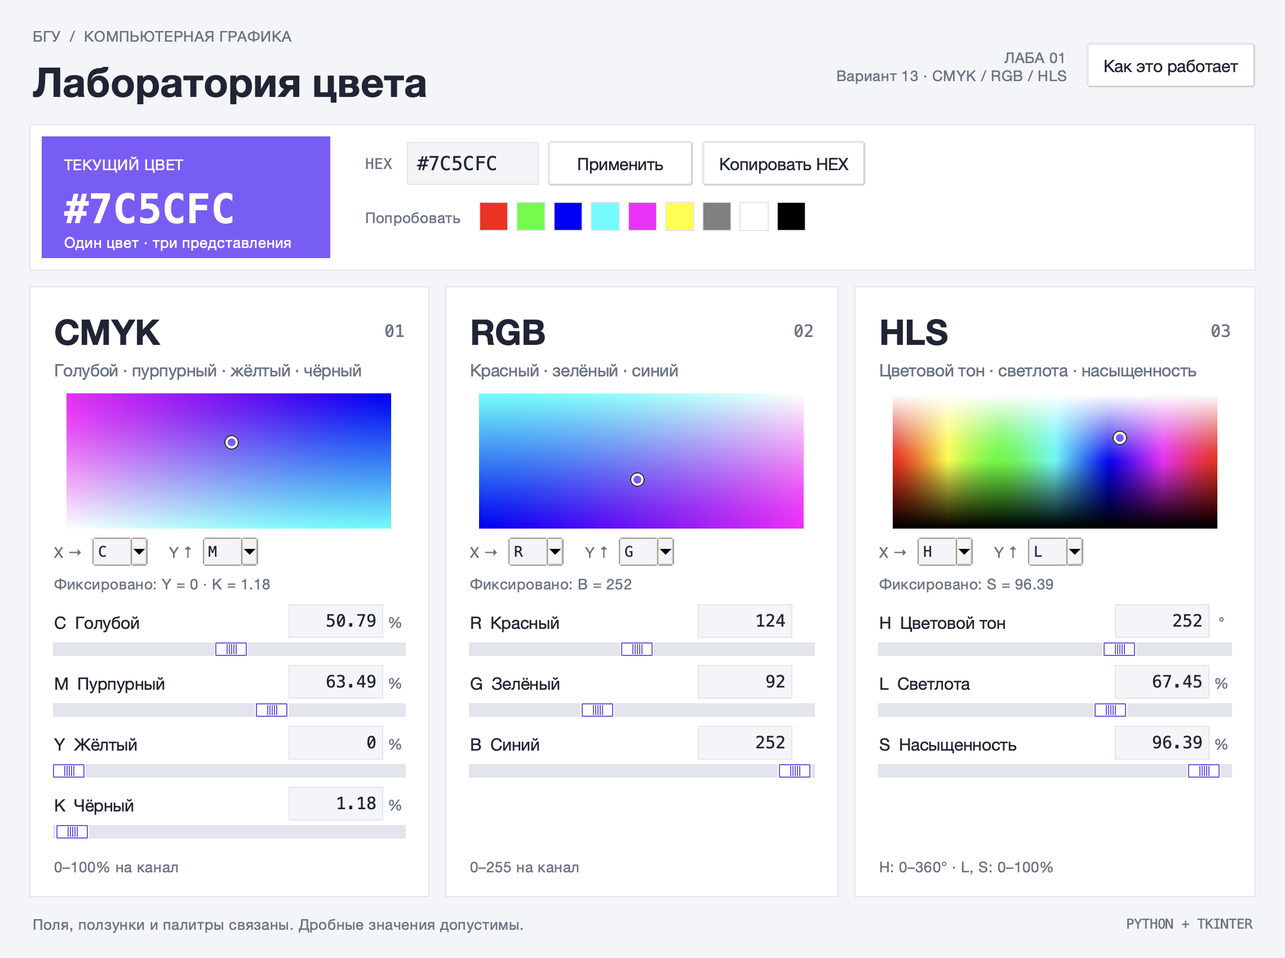
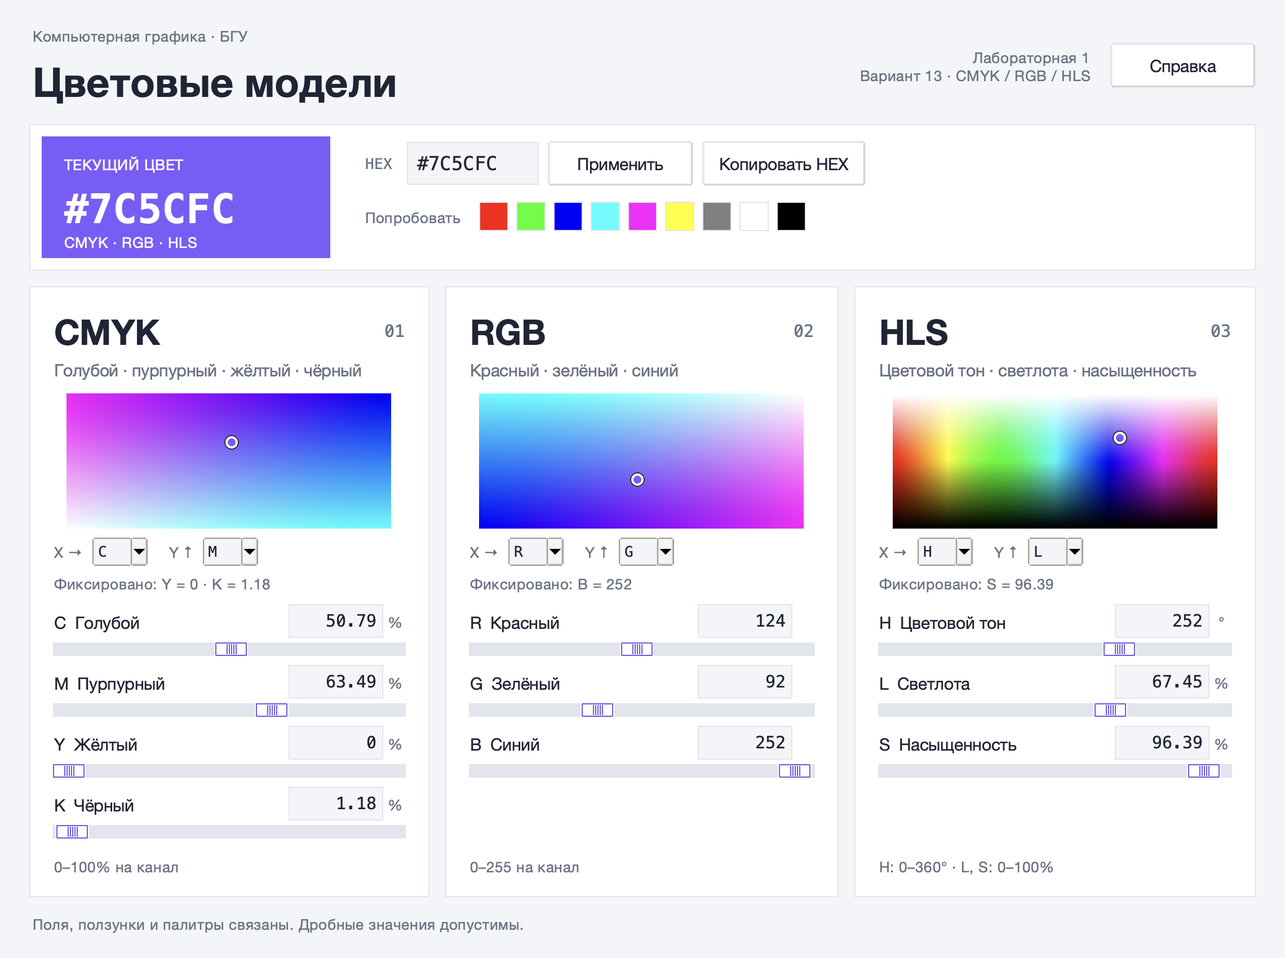
Simplify lab documentation and add double-click launchers

diff --git a/labs/lab01/app.py b/labs/lab01/app.py
@@ -201,7 +201,7 @@ class ColorApp:
         self.state = ColorState()
         self.palette_job = None
         self.help_window = None
-        root.title("Лаборатория цвета — БГУ · Вариант 13")
+        root.title("Цветовые модели — Лабораторная 1")
         root.configure(bg=BG)
         root.geometry("1140x850")
         root.minsize(1060, 850)
@@ -224,12 +224,12 @@ class ColorApp:
         header.grid(row=0, column=0, sticky="ew", pady=(0, 14))
         heading = tk.Frame(header, bg=BG)
         heading.pack(side="left")
-        tk.Label(heading, text="БГУ  /  КОМПЬЮТЕРНАЯ ГРАФИКА", bg=BG, fg=MUTED,
+        tk.Label(heading, text="Компьютерная графика · БГУ", bg=BG, fg=MUTED,
                  font=(FONT, 10), anchor="w").pack(fill="x")
-        tk.Label(heading, text="Лаборатория цвета", bg=BG, fg=INK,
+        tk.Label(heading, text="Цветовые модели", bg=BG, fg=INK,
                  font=(FONT, 27, "bold"), anchor="w").pack(fill="x", pady=(4, 0))
-        ttk.Button(header, text="Как это работает", command=self.show_help).pack(side="right", padx=(14, 0))
-        tk.Label(header, text="ЛАБА 01\nВариант 13 · CMYK / RGB / HLS", bg=BG, fg=MUTED,
+        ttk.Button(header, text="Справка", command=self.show_help).pack(side="right", padx=(14, 0))
+        tk.Label(header, text="Лабораторная 1\nВариант 13 · CMYK / RGB / HLS", bg=BG, fg=MUTED,
                  justify="right", font=(FONT, 10)).pack(side="right")
 
         preview = tk.Frame(outer, bg=PAPER, highlightbackground=LINE, highlightthickness=1)
@@ -238,7 +238,7 @@ class ColorApp:
         self.swatch.pack(side="left", padx=10, pady=10)
         self.swatch_caption = self.swatch.create_text(20, 25, text="ТЕКУЩИЙ ЦВЕТ", anchor="w", font=(FONT, 10))
         self.swatch_hex = self.swatch.create_text(20, 64, text="", anchor="w", font=(MONO, 27, "bold"))
-        self.swatch_note = self.swatch.create_text(20, 94, text="Один цвет · три представления", anchor="w", font=(FONT, 10))
+        self.swatch_note = self.swatch.create_text(20, 94, text="CMYK · RGB · HLS", anchor="w", font=(FONT, 10))
         tools = tk.Frame(preview, bg=PAPER)
         tools.pack(side="left", fill="both", expand=True, padx=18, pady=14)
         upper = tk.Frame(tools, bg=PAPER)
@@ -286,7 +286,6 @@ class ColorApp:
         footer.grid(row=3, column=0, sticky="ew", pady=(12, 0))
         self.status_label = tk.Label(footer, bg=BG, fg=MUTED, anchor="w", font=(FONT, 10))
         self.status_label.pack(side="left", fill="x", expand=True)
-        tk.Label(footer, text="PYTHON + TKINTER", bg=BG, fg=MUTED, font=(MONO, 9)).pack(side="right")
         self.refresh()
         root.protocol("WM_DELETE_WINDOW", self.close)
 
@@ -340,10 +339,10 @@ class ColorApp:
             return
         window = tk.Toplevel(self.root)
         self.help_window = window
-        window.title("Как устроена лаборатория цвета")
+        window.title("Справка")
         window.geometry("680x580")
         window.configure(bg=PAPER)
-        tk.Label(window, text="Один цвет, три языка", font=(FONT, 23, "bold"),
+        tk.Label(window, text="Цветовые модели", font=(FONT, 23, "bold"),
                  bg=PAPER, fg=INK).pack(anchor="w", padx=26, pady=(24, 12))
         text = tk.Text(window, wrap="word", relief="flat", bg=PAPER, fg=INK,
                        font=(FONT, 13), padx=26, pady=10, spacing3=12)

diff --git a/labs/lab01/README.md b/labs/lab01/README.md
@@ -1,110 +1,48 @@
-# Лабораторная №1. Цветовые модели
+# Лабораторная 1. Цветовые модели
 
-**Вариант 13 (нечётный): CMYK — RGB — HLS.**
+Вариант 13: **CMYK, RGB, HLS**. Python + Tkinter.
 
-Настольное приложение на Python и Tkinter: один цвет одновременно отображается и редактируется в трёх моделях. Сторонних Python-библиотек, сервера и подключения к интернету не требуется.
-
-![Интерфейс лаборатории цвета](docs/screenshot.png)
+[Условие](assignment.pdf) · [Формулы](THEORY.md)
 
 ## Запуск
 
-Требуется **Python 3.10 или новее с Tkinter**.
+Из папки репозитория открой двойным щелчком `Запустить лабораторную.command` (macOS) или `Запустить лабораторную.bat` (Windows).
 
-Из корня репозитория:
+Или выполни из этой папки:
 
 ```bash
-cd labs/lab01
 python3 app.py
 ```
 
-На Windows:
+На Windows — `py app.py`. Нужен Python 3.10+ с Tkinter; устанавливать пакеты через pip не требуется. Проверка Tkinter: `python3 -m tkinter`.
 
-```powershell
-cd labs/lab01
-py app.py
-```
+## Управление
 
-На macOS можно дважды щёлкнуть по `run.command`. Этот файл сначала проверяет Python из Homebrew, затем использует `python3` из PATH.
+Каждая модель имеет числовые поля, ползунки и палитру. Изменения сразу пересчитываются в остальных моделях.
 
-Проверить наличие Tkinter можно командой `python3 -m tkinter` (на Windows — `py -m tkinter`). Должно открыться тестовое окно. Если модуль отсутствует, установите поддержку Tcl/Tk для своего дистрибутива Python: Tkinter не устанавливается через `pip`. `requirements.txt` приведён для ясности и не содержит внешних зависимостей.
+- В полях можно вводить дроби с точкой или запятой. Ошибочный ввод не меняет цвет.
+- В палитре выбери две компоненты для осей X и Y. Остальные компоненты остаются постоянными; их можно менять ползунками.
+- HEX вводится сверху и применяется по Enter или кнопкой. Рядом — готовые цвета и копирование HEX.
 
-## Возможности
+Диапазоны: RGB — 0–255; CMYK — 0–100%; H — 0–360°, L и S — 0–100%.
 
-В **каждой** из трёх панелей есть все три способа задания цвета:
+![Окно программы](docs/screenshot.png)
 
-1. **Числовые поля** для каждой компоненты. Изменения применяются сразу. Поддерживаются дробные числа с точкой или запятой.
-2. **Ползунки** для плавного изменения каждой компоненты. Стрелки клавиатуры меняют значение на единицу.
-3. **Двумерная палитра** с выбором любых двух компонент по осям X и Y. Нажмите или перетаскивайте указатель. Остальные компоненты сохраняются; их значения подписаны под палитрой.
+## Код
 
-В палитре X растёт слева направо, Y — снизу вверх. Если выбрать на одной оси компоненту, уже занятую другой осью, оси поменяются местами. Остальные компоненты меняются полями или ползунками: так можно пройти всё пространство цвета данной модели.
+- `colors.py` — преобразования и состояние цвета.
+- `app.py` — интерфейс и обработчики событий.
+- `tests/` — тесты формул и виджетов.
 
-После изменения любой координаты две другие модели, образец цвета, HEX, ползунки и положение маркеров синхронизируются автоматически. Для растров палитр используется небольшая задержка перерисовки (24 мс); пересчёт чисел происходит сразу.
+CMYK рассчитан по учебной формуле без профиля принтера. Внутренние значения не округляются; поля показывают два знака после запятой, HEX — целые RGB-компоненты.
 
-Дополнительно доступны HEX-ввод (`#7C5CFC`, `7c5cfc`, `#F80`), копирование HEX, девять готовых образцов и встроенная справка.
+## Тесты
 
-| Модель | Компоненты и диапазоны |
-|---|---|
-| RGB | R, G, B: 0–255; дробные значения разрешены |
-| CMYK | C, M, Y, K: 0–100% |
-| HLS | H: 0–360°; L, S: 0–100% |
-
-Неверное значение подсвечивается и не меняет состояние цвета. После Enter или выхода из поля восстанавливается последнее допустимое значение. HEX применяется кнопкой «Применить» или Enter; при неверном HEX появляется пояснение в строке состояния.
-
-## Соответствие условию
-
-Исходный документ: [assignment.pdf](assignment.pdf).
-
-| Критерий | Реализация |
-|---|---|
-| Преобразования, 40 баллов | Собственные формулы в `colors.py`; CMYK ↔ HLS через RGB; тесты эталонных цветов и сравнение HLS с `colorsys` |
-| Удобный интерфейс, 20 баллов | Три панели, большой образец, подписанные компоненты и диапазоны, HEX, справка, обработка ошибок |
-| Три способа ввода в каждой модели, 20 баллов | Числовые поля, ползунки, отдельная палитра в каждой панели |
-| Автоматический пересчёт, 20 баллов | Обработчики виджетов меняют общее состояние и обновляют остальные представления |
-
-В условии допускается приложение или веб-приложение. Здесь выбран настольный Python-вариант; отдельный `.exe` для запуска исходников не нужен.
-
-## Проверки
-
-Команды выполняются из `labs/lab01`.
-
-Математика и состояние — без графического сеанса:
+Из папки `labs/lab01`:
 
 ```bash
 python3 -m unittest discover -s tests -p 'test_*.py' -v
-```
-
-14 тестов: основные цвета, все 256 уровней серого, границы, 3000 воспроизводимых случайных наборов, сравнение HLS с независимой реализацией `colorsys`, обратные преобразования, неоднозначность CMYK, точность и неверный ввод.
-
-Настоящие виджеты Tkinter — нужен графический сеанс, на время проверки откроется окно:
-
-```bash
 python3 -m unittest discover -s tests -p 'gui_checks.py' -v
 ```
 
-10 тестов: поля и ползунки всех компонент, палитры всех моделей, смена осей, выход за границы при перетаскивании, дробный и неверный ввод, HEX, справка и отсутствие обрезанных элементов при минимальном размере окна.
-
-Короткая проверка вручную:
-
-| Действие | Ожидаемый результат |
-|---|---|
-| RGB = (255, 0, 0) | Красный; CMYK = (0, 100, 100, 0); HLS = (0, 50, 100) |
-| HLS = (120, 50, 100) | Зелёный; RGB = (0, 255, 0) |
-| CMYK = (50, 50, 50, 50) | Серый; RGB = (63.75, 63.75, 63.75); введённые CMYK сохраняются |
-| CMYK: K = 100 | Чёрный при любых C, M, Y; нет деления на ноль |
-| HLS: S = 0, L = 50 | Серый; RGB = (127.5, 127.5, 127.5) |
-| HLS: H = 360, L = 50, S = 100 | Такой же красный, как при H = 0 |
-| Ввести `nan`, `-1` или RGB = 999 | Подсветка ошибки; текущий цвет остаётся прежним |
-
-## Файлы и подготовка к защите
-
-- `app.py` — окно, поля, ползунки, палитры и обработчики событий.
-- `colors.py` — формулы и класс `ColorState`; без зависимости от интерфейса.
-- `tests/test_colors.py` — математические проверки.
-- `tests/gui_checks.py` — проверки виджетов.
-- `THEORY.md` — формулы, объяснение компонентов и вопросы для защиты.
-- `assignment.pdf` — исходное условие.
-- `docs/screenshot.png` — пример интерфейса.
-
-Начать разбор кода удобно с [THEORY.md](THEORY.md), затем посмотреть `ColorState.set_values()` и `ColorApp.refresh()`.
-
-CMYK реализован как учебная формула, без ICC-профиля и имитации конкретной печатной машины. Вычисления сохраняют дробную точность; только подписи округлены до двух знаков, а цвет на экране и HEX — до 8 бит на RGB-канал.
+Вторая команда открывает тестовое окно и требует графического сеанса.

diff --git a/labs/lab01/THEORY.md b/labs/lab01/THEORY.md
@@ -1,4 +1,4 @@
-# Формулы и подготовка к защите
+# Преобразования цветов
 
 ## Что означают компоненты
 
@@ -117,16 +117,3 @@ B = 255 × (b′ + m)
 Внутренние значения — `float`. Их не округляем между преобразованиями. Подписи округляются до двух знаков, HEX и экранные пиксели — до целых 0–255. Именно поэтому изменение одной компоненты берёт остальные из `ColorState`, а не считывает уже округлённый текст соседних полей.
 
 Тесты проверяют сохранение цвета после многократных преобразований. Для HLS используется независимый эталон — модуль `colorsys` стандартной библиотеки Python: он принимает и возвращает нормированные значения 0–1. Само приложение `colorsys` не использует: формулы реализованы явно в `colors.py`.
-
-## Вопросы для самопроверки
-
-- Почему в RGB максимум всех каналов даёт белый, а в CMYK K=100% даёт чёрный?
-- Почему RGB → CMYK имеет отдельную ветку для чёрного?
-- Чем светлота HLS отличается от V в HSV?
-- Почему у серого не определён цветовой тон?
-- Почему нельзя ожидать точного восстановления всех четырёх исходных CMYK после прохода через RGB?
-- Как флаг `updating` предотвращает цикл обновления виджетов?
-- Почему преобразования не должны считывать округлённый текст из полей?
-- Как переключить оси палитры и какие компоненты при этом остаются постоянными?
-- Где изменить стартовый цвет? В аргументе по умолчанию `ColorState.__init__()`.
-- Где изменить шаг стрелок ползунка? В `ModelPanel.on_scale_key()`.

diff --git a/README.md b/README.md
@@ -1,23 +1,24 @@
 # Компьютерная графика
 
-Лабораторные работы по курсу «Компьютерная графика» в БГУ.
+Лабораторные работы БГУ. Номер в группе — 13.
 
-## Лабораторные работы
+| Работа | Тема |
+|---|---|
+| [1](labs/lab01/) | Цветовые модели CMYK, RGB, HLS |
 
-Номер в группе: **13**. Для заданий с разделением по чётности используются нечётные варианты.
+## Запуск
 
-| № | Тема | Реализация |
-|---|---|---|
-| [01](labs/lab01/) | Цветовые модели: CMYK, RGB, HLS | Python + Tkinter, без сторонних библиотек |
+Открой папку репозитория и дважды щёлкни:
 
-## Запуск первой лабораторной
+- **macOS:** `Запустить лабораторную.command`;
+- **Windows:** `Запустить лабораторную.bat`.
+
+Нужен Python 3.10+ с Tkinter. Дополнительных библиотек нет.
+
+Из терминала:
 
 ```bash
-cd labs/lab01
-python3 app.py
+python3 labs/lab01/app.py
 ```
 
-Нужен Python 3.10+ с Tkinter. На Windows можно использовать `py app.py`.
-На macOS также можно открыть `labs/lab01/run.command` двойным щелчком.
-
-Условие, инструкции, формулы и команды проверки находятся в [папке работы](labs/lab01/).
+[Условие](labs/lab01/assignment.pdf) · [Формулы](labs/lab01/THEORY.md)
